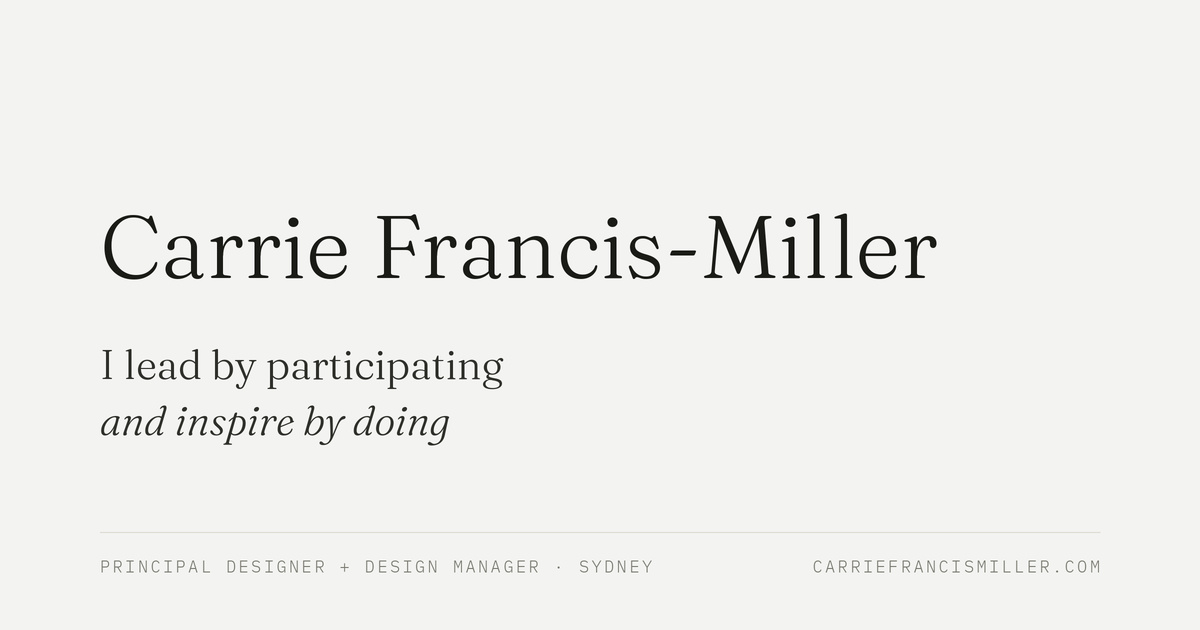
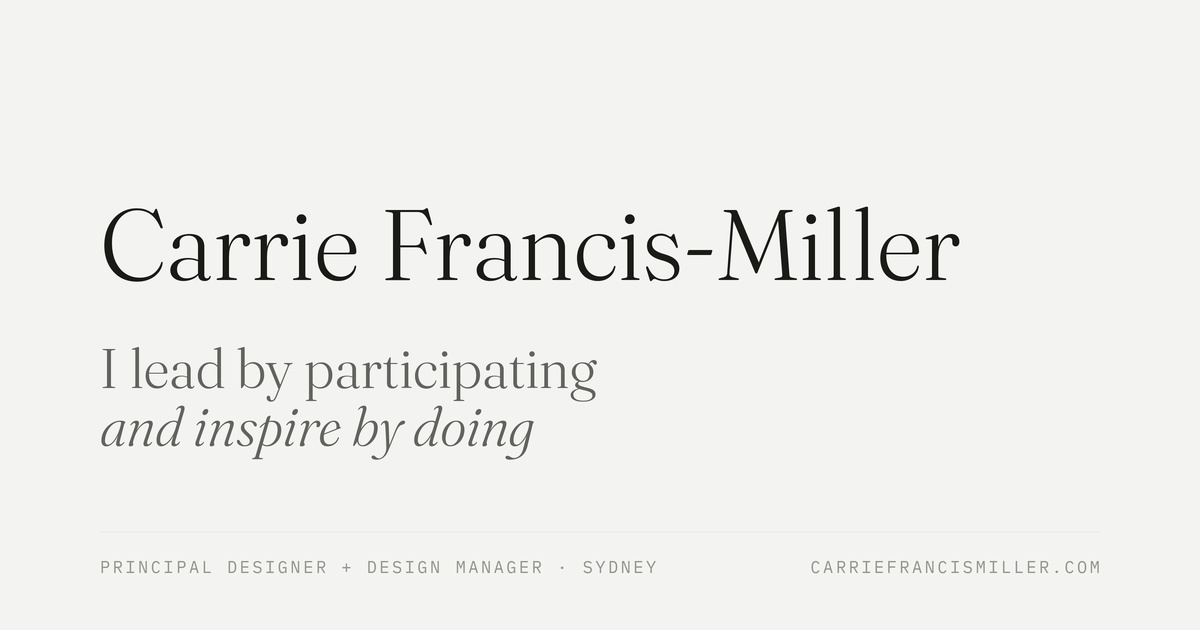
updated image with higher rez image for calling card

diff --git a/about.html b/about.html
@@ -4,7 +4,7 @@
   <meta charset="UTF-8">
   <meta name="viewport" content="width=device-width, initial-scale=1.0">
   <script src="/js/analytics.js"></script>
-  <title>About Carrie Francis-Miller — Principal Product Designer, Sydney</title>
+  <title>About Carrie Francis-Miller — Principal Designer + Design Manager, Sydney</title>
   <meta name="description" content="Carrie Francis-Miller is a Sydney-based principal product designer and design leader with ~17 years of experience across fintech and healthtech, including Block, Afterpay, Cash App, Google, Nike, Cochlear, and ustwo.">
   <meta name="author" content="Carrie Francis-Miller">
   <meta name="theme-color" content="#ffffff">
@@ -20,7 +20,7 @@
   <meta property="og:site_name" content="Carrie Francis-Miller">
   <meta property="og:locale" content="en_AU">
   <meta property="og:url" content="https://www.carriefrancismiller.com/about.html">
-  <meta property="og:title" content="About Carrie Francis-Miller — Principal Product Designer, Sydney">
+  <meta property="og:title" content="About Carrie Francis-Miller — Principal Designer + Design Manager, Sydney">
   <meta property="og:description" content="Sydney-based principal product designer and design leader. ~17 years across fintech and healthtech — Block, Afterpay, Cash App, Google, Nike, Cochlear, ustwo.">
   <meta property="og:image" content="https://www.carriefrancismiller.com/assets/imagery/og-image.jpg">
   <meta property="og:image:width" content="1200">
@@ -30,7 +30,7 @@
 
   <!-- Twitter Card -->
   <meta name="twitter:card" content="summary_large_image">
-  <meta name="twitter:title" content="About Carrie Francis-Miller — Principal Product Designer, Sydney">
+  <meta name="twitter:title" content="About Carrie Francis-Miller — Principal Designer + Design Manager, Sydney">
   <meta name="twitter:description" content="Sydney-based principal product designer and design leader. ~17 years across fintech and healthtech — Block, Afterpay, Cash App, Google, Nike, Cochlear, ustwo.">
   <meta name="twitter:image" content="https://www.carriefrancismiller.com/assets/imagery/og-image.jpg">
 

diff --git a/index.html b/index.html
@@ -4,7 +4,7 @@
   <meta charset="UTF-8">
   <meta name="viewport" content="width=device-width, initial-scale=1.0">
   <script src="/js/analytics.js"></script>
-  <title>Carrie Francis-Miller — Principal Product Designer, Sydney</title>
+  <title>Carrie Francis-Miller — Principal Designer + Design Manager, Sydney</title>
   <meta name="description" content="Principal product designer in Sydney with ~17 years across fintech and healthtech — Block (Afterpay, Cash App), Google, Nike, Cochlear, ustwo. Selected work, leadership, and design systems.">
   <meta name="author" content="Carrie Francis-Miller">
   <meta name="theme-color" content="#ffffff">
@@ -20,7 +20,7 @@
   <meta property="og:site_name" content="Carrie Francis-Miller">
   <meta property="og:locale" content="en_AU">
   <meta property="og:url" content="https://www.carriefrancismiller.com/">
-  <meta property="og:title" content="Carrie Francis-Miller — Principal Product Designer, Sydney">
+  <meta property="og:title" content="Carrie Francis-Miller — Principal Designer + Design Manager, Sydney">
   <meta property="og:description" content="Principal product designer in Sydney with ~17 years across fintech and healthtech — Block (Afterpay, Cash App), Google, Nike, Cochlear, ustwo.">
   <meta property="og:image" content="https://www.carriefrancismiller.com/assets/imagery/og-image.jpg">
   <meta property="og:image:width" content="1200">
@@ -29,7 +29,7 @@
 
   <!-- Twitter Card -->
   <meta name="twitter:card" content="summary_large_image">
-  <meta name="twitter:title" content="Carrie Francis-Miller — Principal Product Designer, Sydney">
+  <meta name="twitter:title" content="Carrie Francis-Miller — Principal Designer + Design Manager, Sydney">
   <meta name="twitter:description" content="Principal product designer in Sydney with ~17 years across fintech and healthtech — Block (Afterpay, Cash App), Google, Nike, Cochlear, ustwo.">
   <meta name="twitter:image" content="https://www.carriefrancismiller.com/assets/imagery/og-image.jpg">
 
